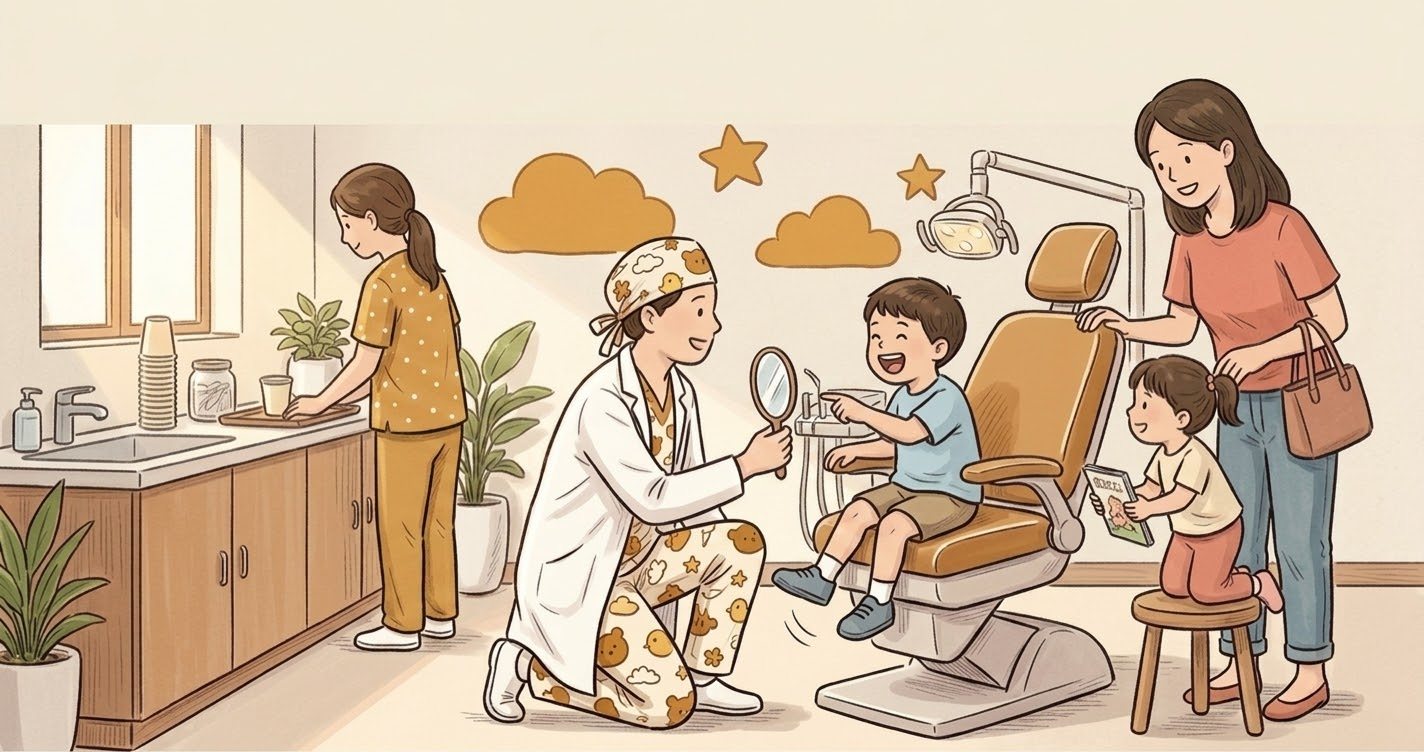
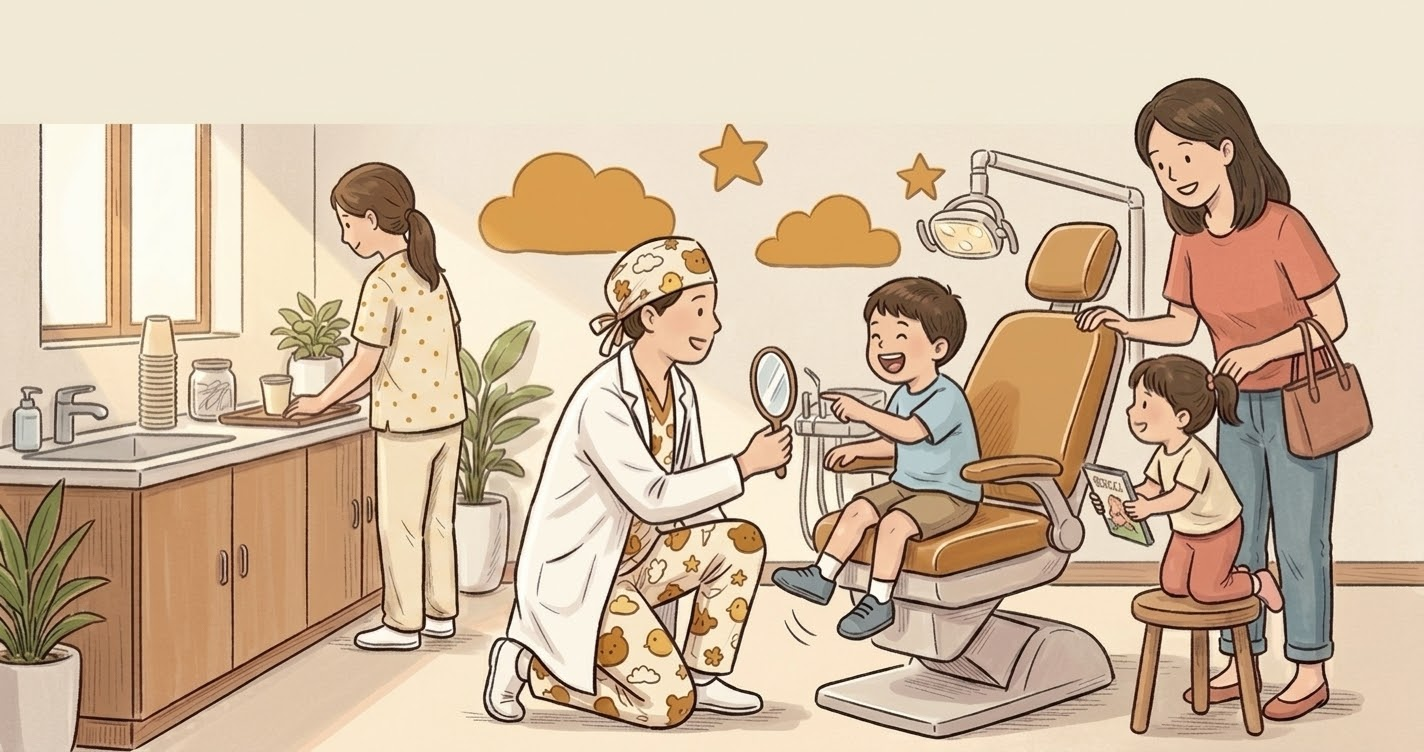
兒牙分享圖第四版：助理換成暖白底＋芥末圓點，重跑管線（tintcolor #c27a00）；記下頂端那條接縫剛好被帶子蓋住、餘裕只有 2px

diff --git a/drafts/og-topic-kids-prompt.md b/drafts/og-topic-kids-prompt.md
@@ -1,7 +1,8 @@
 # 分享圖提示詞：兒童牙科（`og-topic-kids`）
 
-**狀態：⏳ 第四版（2026-08-24）。第三版產圖、疊帶子、驗收都做完了（第五之二節），
-但使用者疊完帶子之後退一步：「畫面太多黃色」—— 助理的衣服要換，見第五之三節。**
+**狀態：⏳ 第四版已產圖並疊上帶子（2026-08-24），等使用者點頭。成品 `assets/og-topic-kids.jpg`。
+原檔 `drafts/og-topic-kids-src.jpg`（第三版那張留在 `drafts/og-topic-kids-src-v3.jpg`）。
+第五之二節是第三版的數字，第五之四節是第四版的。**
 舊註：第一版的梗、姿勢、兩人同高、媽媽的位置全部一次就對，
 使用者退回四件（安靜／褲子沒印花／椅子顏色／像倉庫）—— 量測與改法在第五之〇節，提示詞在第五節。**
 規格依 [ILLUSTRATION.md](../ILLUSTRATION.md) 第十一節（250px 判準）與
@@ -385,6 +386,35 @@ multicoloured patterns; posters or charts on the wall; large empty white areas; 
   —— **兩句都是站上原本就有的字**，不是另外寫的文案。
 ・裁切驗收：iMessage 中央 78.7%、LINE 中央 89.7%，兩種都模擬過 ——
   科別名、標誌、診所名、地名**全部留得住**；被切掉的是媽媽的包包與半邊身體，臉還在。
+
+---
+
+## 五之四、第四版的數字（2026-08-24）
+
+    node tools/og-resize.mjs drafts/og-topic-kids-src.jpg kids
+    node tools/og-plate.mjs kids --blend multiply --tintcolor '#c27a00' \
+      --ink 0.18 --blur 6 --loc full --locpos stack
+
+| | v3 | **v4** | 門檻 |
+| --- | --- | --- | --- |
+| 邊緣密度 | 33.5% | **33.5%** | ≥30% ✅ |
+| 無彩空白 | 0.1% | **0.1%** | <5% ✅ |
+| 頂 17% 邊緣密度 | 2.4% | **2.4%** | 乾淨 ✅ |
+| 頂 17% 中位色 | R242 G234 B215 | **R241 G233 B214** | R≥228 ✅ |
+| `--tintcolor` | `#c17900` | **`#c27a00`**（牆差一階，補償色跟著算） | — |
+| 帶子落在／紙色字對比 | `#9e6301`／3.91 | **同上** | 見第五之二節 |
+
+### ⚠ 使用者問「上面那條乳白色的帶子是不是把插圖截掉了」——沒有，但值得記住
+
+那是**我們自己要求的安靜區**（提示詞第三段：頂 17% 只畫牆）。模型這一版把它畫成
+**比下面的牆亮一階的一條**（接縫在 y≈124/752 ＝ **16.5%**，上面 `rgb(241,233,214)`、
+下面 `rgb(241,228,211)`），所以在**底圖**上看得出一條橫線，像被切掉一截。
+疊上帶子（蓋掉 16.56%）之後**整條被蓋住**，逐列看過成品沒有殘留的線。
+
+⚠⚠ **但餘裕只有 2px（16.56% vs 16.5%）。** 下一科要注意兩件：
+・提示詞那一段要**再加一句「那條牆和下面的牆是同一片，不要有任何橫線或深淺變化」**；
+・`og-resize` 會往內裁掉約 0.9% 的高度，接縫的百分比因此會**往上跑一點點**（有利），
+  但只要模型把接縫畫在 17% 以下就會露出來 —— **每一版都要把成品的頂端逐列看一次。**
 
 ---
 
